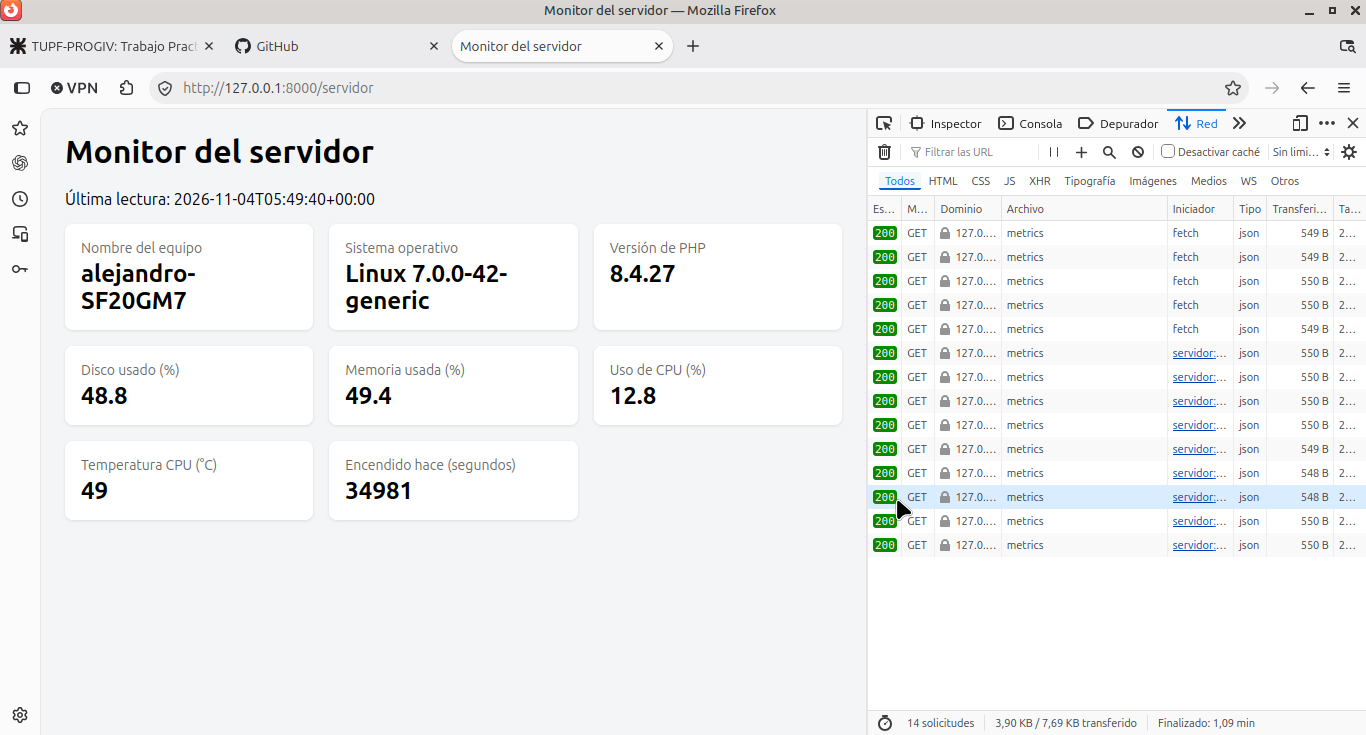
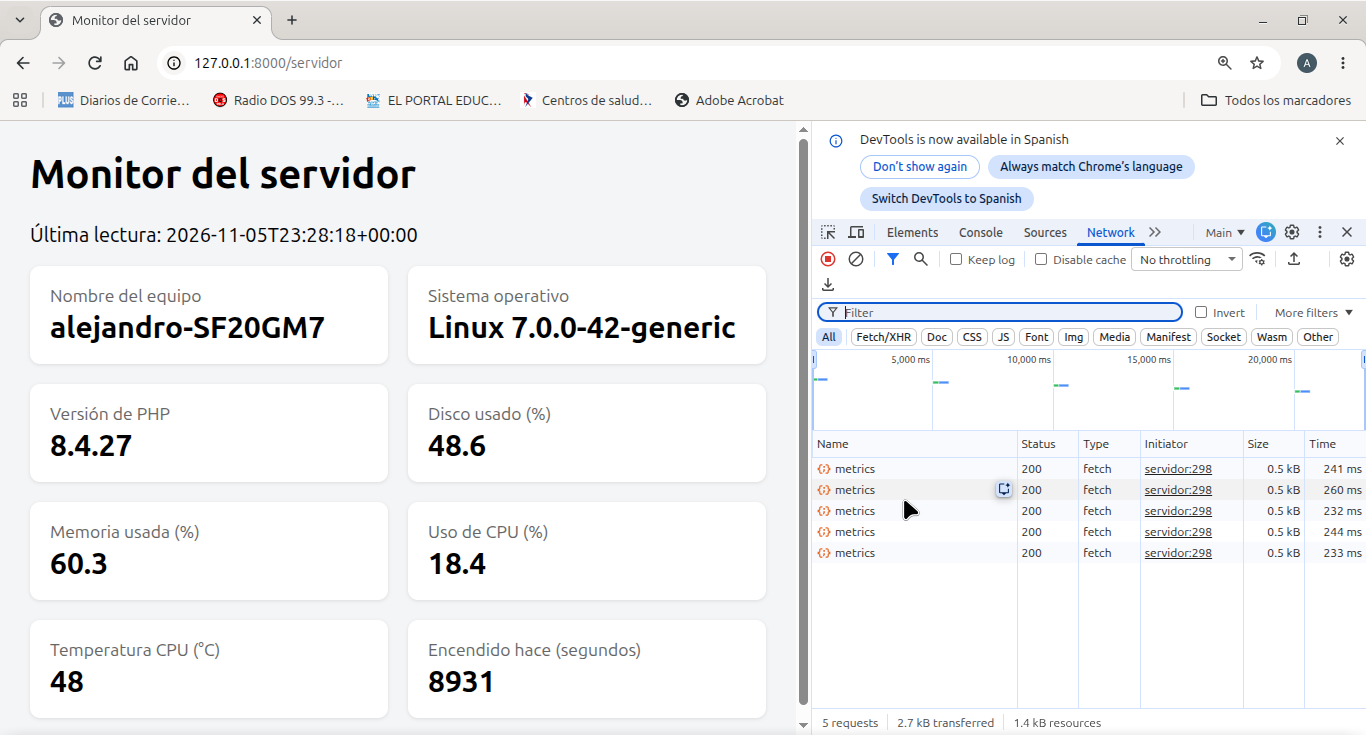
docs: reemplazar capturas de la entrega por las actuales (Chrome, polling 200 OK) y actualizar README

diff --git a/README.md b/README.md
@@ -153,11 +153,12 @@ desperdiciado, es más superficie de exposición de datos sensibles (hostname, v
 
 ## Capturas de la entrega
 
-**Vista web `/servidor` con el polling visible** (panel Red de Firefox: un pedido a la API cada 5 segundos):
+**Vista web `/servidor` con el polling visible** (panel Red de Chrome: un `fetch` a `/api/metrics`
+cada 5 segundos, todos con estado 200):
 
 ![Vista /servidor con polling](docs/servidor.png)
 
-**API JSON `/api/metrics`:**
+**API JSON `/api/metrics`** (respuesta completa, con las 9 claves):
 
 ![API /api/metrics](docs/api.png)
 
